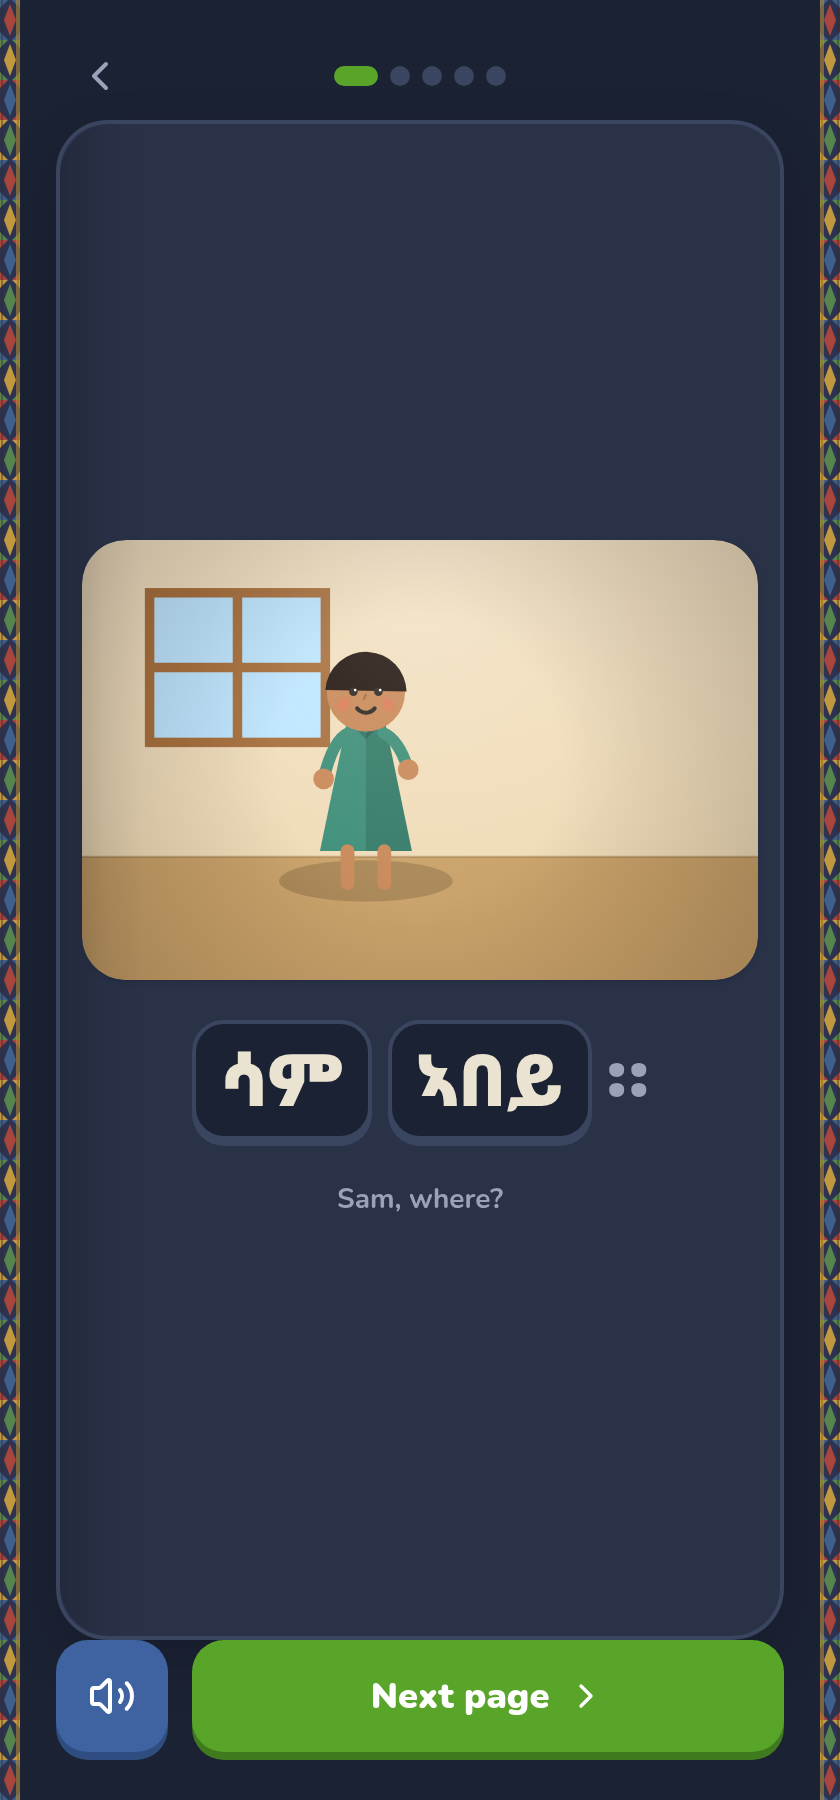
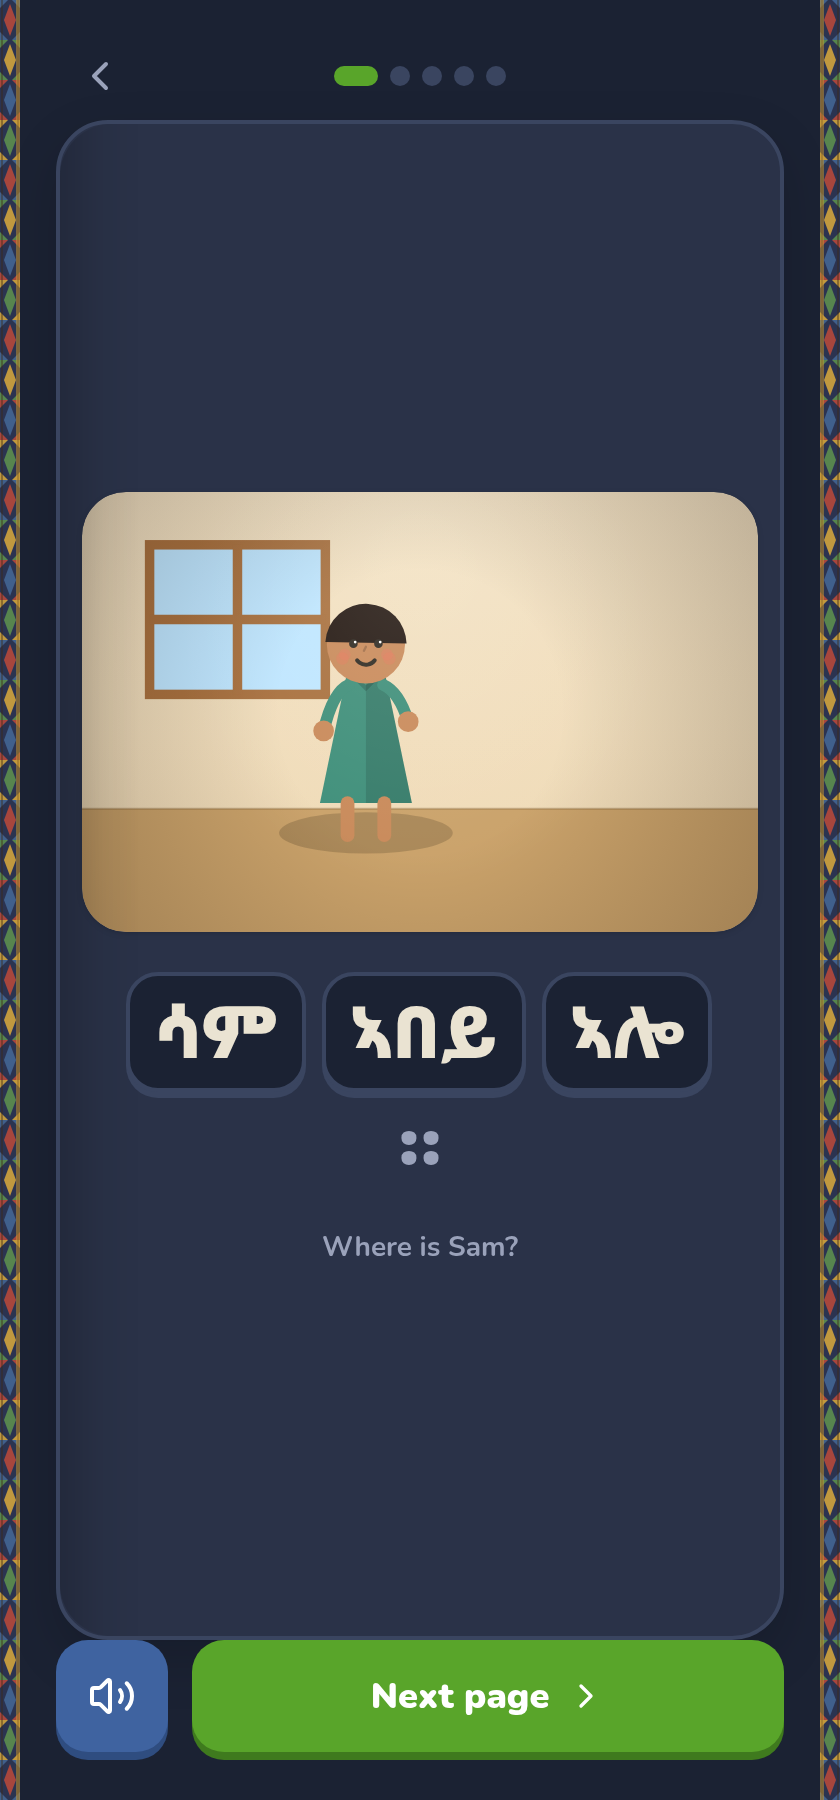
Correct Tigrinya Story Path lines.
Use full kid sentences, room phrasing, feminine grandma and mom verbs, a real school arrival, and weekday lines that say the sun is there.

Changed region(s): [[0.0929, 0.2489, 0.9286, 0.7156]]

diff --git a/src/data/schoolPathGr1Stories.test.js b/src/data/schoolPathGr1Stories.test.js
@@ -89,8 +89,34 @@ describe('school path story pack', () => {
     }
     const sam = SCHOOL_PATH_STORIES.find((s) => s.id === 'where-is-sam')
     expect(sam.unlockAfterUnitId).toBe('u09')
-    expect(SCHOOL_PATH_STORIES.find((s) => s.id === 'walk-to-school').unlockAfterUnitId).toBe('u10')
+    expect(SCHOOL_PATH_STORIES.find((s) => s.id === 'walk-to-school').unlockAfterUnitId).toBe('u11')
     expect(SCHOOL_PATH_STORIES.find((s) => s.id === 'sun-all-week').unlockAfterUnitId).toBe('u11')
+  })
+
+  it('uses natural Tigrinya lines, feminine verbs, and ኣ not አ', () => {
+    const byId = Object.fromEntries(SCHOOL_PATH_STORIES.map((s) => [s.id, s]))
+    const blob = SCHOOL_PATH_STORIES.map((s) => [s.titleTi, s.refrain.geez, ...s.pages.map((p) => p.geez)].join('\n')).join('\n')
+    expect(blob.includes('አ')).toBe(false)
+    expect(blob.includes('ሓበይቲ')).toBe(false)
+    expect(byId['where-is-sam'].titleTi).toBe('ሳም ኣበይ ኣሎ?')
+    expect(byId['where-is-sam'].pages[0].geez).toBe('ሳም ኣበይ ኣሎ?')
+    expect(byId['where-is-sam'].pages[1].geez).toBe('ሳም ኣብ ኩሽና የለን።')
+    expect(byId['where-is-sam'].pages[1].meaningEn).toBe('Sam is not in the kitchen.')
+    expect(byId['walk-to-school'].titleTi).toBe('ናብ ቤት ትምህርቲ')
+    expect(byId['walk-to-school'].pages[0].geez).toBe('ቆልዓ ናብ ቤት ትምህርቲ ከደ።')
+    expect(byId['walk-to-school'].pages.at(-1).geez).toBe('ቆልዓ ናብ ቤት ትምህርቲ በጽሐ።')
+    expect(byId['coffee-with-grandma'].titleTi).toBe('ጀበና ምስ ዓባይ')
+    expect(byId['coffee-with-grandma'].pages[3].geez).toBe('ዓባይ ሰተየት።')
+    expect(byId['baby-wont-sleep'].pages[1].geez).toBe('ማማ ዘመረት።')
+    expect(byId['baby-wont-sleep'].pages[2].geez).toBe('ማማ ቆልዓ ሓዘት።')
+    const sun = byId['sun-all-week']
+    expect(sun.titleTi).toBe('ኩሉ ሰሙን ጸሓይ ኣሎ')
+    expect(sun.pages.slice(0, 7).map((p) => storyWords(p.geez)[0])).toEqual(['ሰኑይ', 'ሰሉስ', 'ረቡዕ', 'ሓሙስ', 'ዓርቢ', 'ቀዳም', 'ሰንበት'])
+    expect(sun.pages.slice(0, 7).every((p) => p.geez.endsWith('ጸሓይ ኣሎ።'))).toBe(true)
+    const tiTitles = storyLibrary([], undefined, 'ti').map((s) => s.title.g)
+    expect(tiTitles).toContain('ሳም ኣበይ ኣሎ?')
+    expect(tiTitles).toContain('ናብ ቤት ትምህርቲ')
+    expect(tiTitles).toContain('ጀበና ምስ ዓባይ')
   })
 
   it('shows the five stories in the Tigrinya library and not in Amharic', () => {

diff --git a/FINDINGS.md b/FINDINGS.md
@@ -30,6 +30,12 @@ The MoE Alphabet book opens on በ / ሰ / ሸ.
   chapter. Biblical Amharic Story Time is unchanged.
 - Tests cover the new alphabet fields and the story schema. Docs:
   `docs/school-path.md`.
+- Tigrinya line pass: Story Time lines are full kid sentences. Where Is Sam?
+  asks `ሳም ኣበይ ኣሎ?` and searches rooms (kitchen, bathroom, bedroom), not
+  inside the jebena. Grandma is `ዓባይ` with `ሰተየት`. Mom sings and holds
+  with feminine verbs. The school walk says the child went and then
+  arrived (`በጽሐ`). Each weekday is `ሰኑይ ጸሓይ ኣሎ።` and the same pattern
+  for the other days. Spelling stays ኣ, not አ.
 
 ## Still NEED
 
@@ -43,8 +49,9 @@ The MoE Alphabet book opens on በ / ሰ / ሸ.
   exist, those Meet cards stay letter bubbles. Hints are in the JSON.
 - Family Voice recordings for the new Meet words, echo lines, and the five
   stories. Read-to-me falls back to letter spelling when no clip exists.
-- Native-speaker pass, especially the rare-letter Meets (ኘው meow, ፅዋ cup,
-  ኃይሊ power, ዥዋዥዌ swing, ጳጉሜ, ሠዓሊ) and the story lines.
+- Native-speaker pass on the rare-letter Meets (ኘው meow, ፅዋ cup,
+  ኃይሊ power, ዥዋዥዌ swing, ጳጉሜ, ሠዓሊ). Story lines had a Tigrinya pass;
+  a speaker can still flag a word that sounds off.
 - No natural mid-word target for ttse (ፀ) or pe (ፐ) in this pack.
 - Grade 2 and later harvests (mother tongue, maths, science) are not started.
 - Geez Class (classical Geez slides) stays a separate future track.
